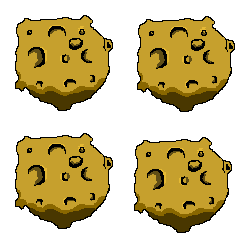
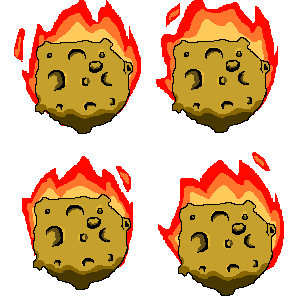
scoreboard fixed enemy. now removes enemy after shot redrawn asteroid

diff --git a/core/src/lt/baltictalents/clearingdarkness/screens/GameOverScreen.java b/core/src/lt/baltictalents/clearingdarkness/screens/GameOverScreen.java
@@ -2,9 +2,14 @@ package lt.baltictalents.clearingdarkness.screens;
 
 import com.badlogic.gdx.Gdx;
 import com.badlogic.gdx.InputAdapter;
+import com.badlogic.gdx.Preferences;
 import com.badlogic.gdx.Screen;
+import com.badlogic.gdx.graphics.Color;
 import com.badlogic.gdx.graphics.GL20;
 import com.badlogic.gdx.graphics.Texture;
+import com.badlogic.gdx.graphics.g2d.BitmapFont;
+import com.badlogic.gdx.graphics.g2d.GlyphLayout;
+import com.badlogic.gdx.utils.Align;
 
 import lt.baltictalents.clearingdarkness.ShooterGame;
 import lt.baltictalents.clearingdarkness.tools.Background;
@@ -30,15 +35,28 @@ public class GameOverScreen implements Screen {
     private Texture exitButtonActive;
     private Texture exitButtonInactive;
 
+    private int score, highscore;
+    private BitmapFont scoreFont;
 
-    GameOverScreen(final ShooterGame game) {
+
+    GameOverScreen(final ShooterGame game ,int score) {
         this.game = game;
+        this.score = score;
         gameOverBanner = new Texture("game_over_banner.png");
 
         tryAgainButtonActive = new Texture("try_again_active.png");
         tryAgainButtonInactive = new Texture("try_again_inactive.png");
         exitButtonActive = new Texture("exit_game_over_button_active.png");
         exitButtonInactive = new Texture("exit_game_over_button_inactive.png");
+
+        Preferences prefs = Gdx.app.getPreferences("shootergame");
+        this.highscore = prefs.getInteger("highscore", 0);
+
+        if (score > highscore) {
+            prefs.putInteger("highscore", score);
+            prefs.flush();
+        }
+        scoreFont = new BitmapFont(Gdx.files.internal("fonts/score.fnt"));
 
         game.background.setSpeedFixed(true);
         game.background.setSpeed(Background.DEFAULT_SPEED);
@@ -78,6 +96,16 @@ public class GameOverScreen implements Screen {
 
         game.background.updateAndRender(delta, game.batch);
         game.batch.draw(gameOverBanner, ShooterGame.WIDTH / 2 - BANNER_WIDTH / 2, ShooterGame.HEIGHT - BANNER_HEIGHT - 100, BANNER_WIDTH, BANNER_HEIGHT);
+
+        GlyphLayout newHighScore = new GlyphLayout(scoreFont, "New high score ! \n", Color.WHITE, 0, Align.left, false);
+        GlyphLayout scoreLayout = new GlyphLayout(scoreFont, "Score: \n" + score, Color.WHITE, 0, Align.left, false);
+        GlyphLayout highscoreLayout = new GlyphLayout(scoreFont, "Highscore: \n" + highscore, Color.WHITE, 0, Align.left, false);
+
+        if (score > highscore)
+            scoreFont.draw(game.batch, newHighScore, ShooterGame.WIDTH -500 - scoreLayout.width / 2, ShooterGame.HEIGHT - BANNER_HEIGHT - 15 * 6);
+
+        scoreFont.draw(game.batch, scoreLayout, ShooterGame.WIDTH / 2 - scoreLayout.width / 2, ShooterGame.HEIGHT - BANNER_HEIGHT - 15 * 12);
+        scoreFont.draw(game.batch, highscoreLayout, ShooterGame.WIDTH / 2 - scoreLayout.width / 2, ShooterGame.HEIGHT - BANNER_HEIGHT - scoreLayout.height - 15 * 24);
 
         int x = ShooterGame.WIDTH / 2 - EXIT_BUTTON_WIDTH / 2;
         if (game.camera.getInputInGameWorld().x < x + EXIT_BUTTON_WIDTH && game.camera.getInputInGameWorld().x > x && ShooterGame.HEIGHT - game.camera.getInputInGameWorld().y < EXIT_BUTTON_Y + EXIT_BUTTON_HEIGHT && ShooterGame.HEIGHT - game.camera.getInputInGameWorld().y > EXIT_BUTTON_Y) {

diff --git a/core/src/lt/baltictalents/clearingdarkness/screens/GameScreen.java b/core/src/lt/baltictalents/clearingdarkness/screens/GameScreen.java
@@ -5,6 +5,8 @@ import com.badlogic.gdx.Gdx;
 import com.badlogic.gdx.Screen;
 import com.badlogic.gdx.graphics.GL20;
 import com.badlogic.gdx.graphics.Texture;
+import com.badlogic.gdx.graphics.g2d.BitmapFont;
+import com.badlogic.gdx.graphics.g2d.GlyphLayout;
 import com.badlogic.gdx.graphics.g2d.Sprite;
 
 import lt.baltictalents.clearingdarkness.ShooterGame;
@@ -29,6 +31,8 @@ public class GameScreen extends ApplicationAdapter implements Screen {
     private ShotManager shotManager;
     private CollisionManager collisionManager;
 
+    private BitmapFont scoreFont;
+//    ArrayList<Enemy> enemies;
 //    Player player;
 
     GameScreen(final ShooterGame game) {
@@ -37,6 +41,8 @@ public class GameScreen extends ApplicationAdapter implements Screen {
 
         asteroid = new Asteroid();
         game.background.setSpeedFixed(false);
+
+        scoreFont = new BitmapFont(Gdx.files.internal("fonts/score.fnt"));
 
         Texture playerTexture = new Texture(Gdx.files.internal("player_sprite_sheet.png"));
         Sprite playerSprite = new Sprite(playerTexture);
@@ -56,14 +62,21 @@ public class GameScreen extends ApplicationAdapter implements Screen {
     public void render(float delta) {
         if (!collisionManager.isAlive()) {
             this.dispose();
-            game.setScreen(new GameOverScreen(game));
+            game.setScreen(new GameOverScreen(game,enemy.score));
             return;
         }
+
+//        if  (collisionManager.handleEnemyShot()){
+//            score += 100;
+//        }
 
         Gdx.gl.glClearColor(0, 0, 0, 1);
         Gdx.gl.glClear(GL20.GL_COLOR_BUFFER_BIT);
         game.batch.begin();
         game.background.updateAndRender(delta, game.batch);
+
+        GlyphLayout scoreLayout = new GlyphLayout(scoreFont, "" + enemy.score);
+        scoreFont.draw(game.batch, scoreLayout, ShooterGame.WIDTH / 2 - scoreLayout.width / 2, ShooterGame.HEIGHT - scoreLayout.height - 10);
 
         collisionManager.draw(game.batch);
         playerAnimated.draw(game.batch);
@@ -76,11 +89,15 @@ public class GameScreen extends ApplicationAdapter implements Screen {
 
         if (collisionManager.isAlive()) {
 
+//            if  (collisionManager.handleEnemyShot()){
+//                score += 100;
+//            }
             playerAnimated.move();
             enemy.update();
             asteroid.update();
             shotManager.update();
             collisionManager.handleCollision();
+//            score += 100;
         }
     }
 

diff --git a/core/src/lt/baltictalents/clearingdarkness/entityManager/Enemy.java b/core/src/lt/baltictalents/clearingdarkness/entityManager/Enemy.java
@@ -7,6 +7,9 @@ import com.badlogic.gdx.graphics.g2d.SpriteBatch;
 import com.badlogic.gdx.math.Rectangle;
 import com.badlogic.gdx.math.Vector2;
 
+import java.util.ArrayList;
+import java.util.Iterator;
+import java.util.List;
 import java.util.Random;
 
 import lt.baltictalents.clearingdarkness.ShooterGame;
@@ -19,10 +22,15 @@ public class Enemy {
     private final ShotManager shotManager;
     private float spawnTimeout = 0f;
 
+    public int score;
+
+    private List<AnimationManager> enemies = new ArrayList<AnimationManager>();
+
     public Enemy(ShotManager shotManager) {
         this.shotManager = shotManager;
         enemyTexture = new Texture(Gdx.files.internal("enemy_sprite_sheet.png"));
         spawn();
+        score = 0;
     }
 
     private void spawn() {
@@ -31,6 +39,7 @@ public class Enemy {
         int xPosition = createRandomPosition();
         enemyAnimated.setPosition(xPosition, ShooterGame.HEIGHT - enemyAnimated.getHeight()-50);
         enemyAnimated.setVelocity(new Vector2(ENEMY_SPEED, 0));
+        enemies.add(enemyAnimated);
         enemyAnimated.setDead(false);
 
     }
@@ -43,7 +52,9 @@ public class Enemy {
 
     public void draw(SpriteBatch batch) {
         if (!enemyAnimated.isDead())
-            enemyAnimated.draw(batch);
+            for (AnimationManager enemy : enemies) {
+                enemy.draw(batch);
+            }
 
     }
 
@@ -59,9 +70,16 @@ public class Enemy {
 
             if (shouldFire())
                 shotManager.fireEnemyShot(enemyAnimated.getX());
-            enemyAnimated.move();
+
         }
 
+        Iterator<AnimationManager> i = enemies.iterator();
+        while (i.hasNext()) {
+            AnimationManager enemy = i.next();
+            enemy.move();
+            if (enemy.getY() <0)
+                i.remove();
+        }
     }
 
     private boolean shouldFire() {
@@ -79,7 +97,9 @@ public class Enemy {
     }
 
     public void hit() {
+        enemyAnimated.setVelocity(new Vector2(0, ENEMY_SPEED));
         enemyAnimated.setDead(true);
+        score+=100;
         spawnTimeout = 2f;
 
     }

diff --git a/core/src/lt/baltictalents/clearingdarkness/tools/CollisionManager.java b/core/src/lt/baltictalents/clearingdarkness/tools/CollisionManager.java
@@ -69,6 +69,4 @@ public class CollisionManager {
     public boolean isAlive() {
         return health > 0;
     }
-
-
 }
